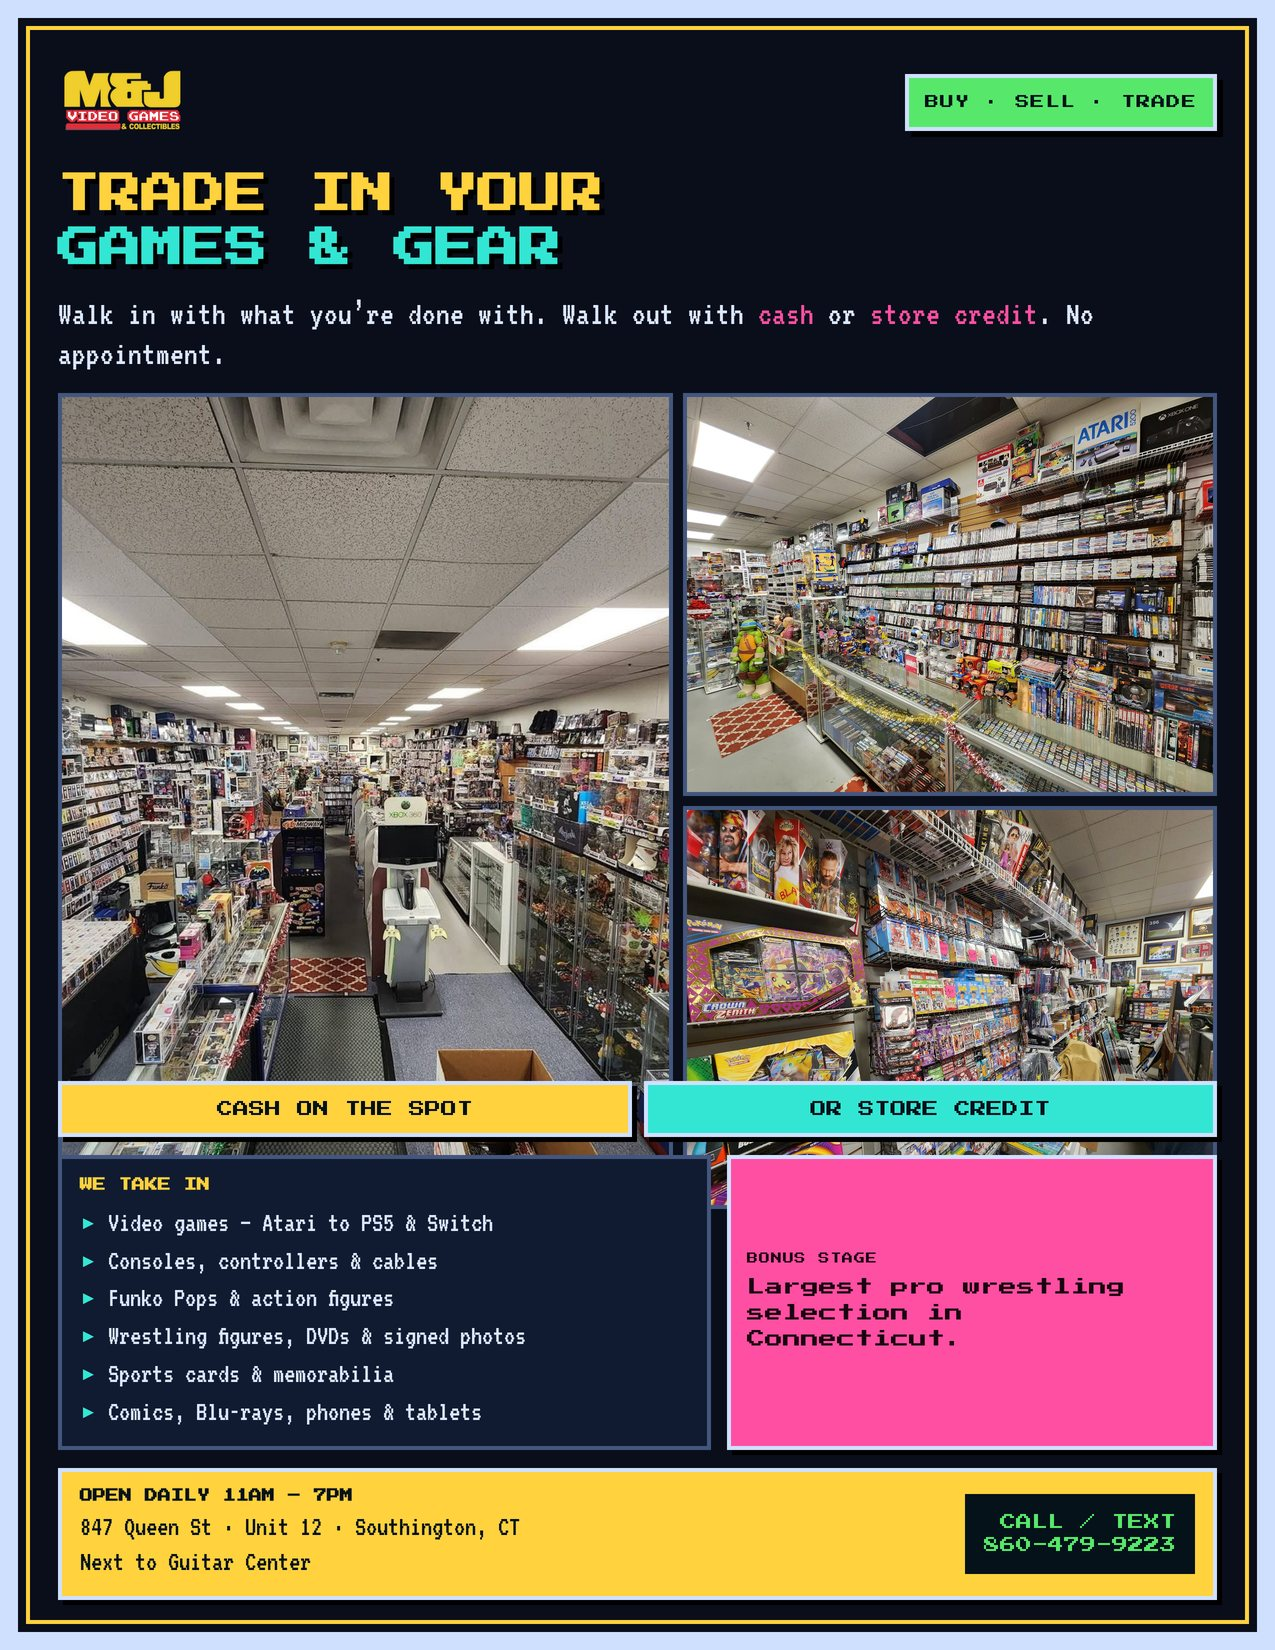
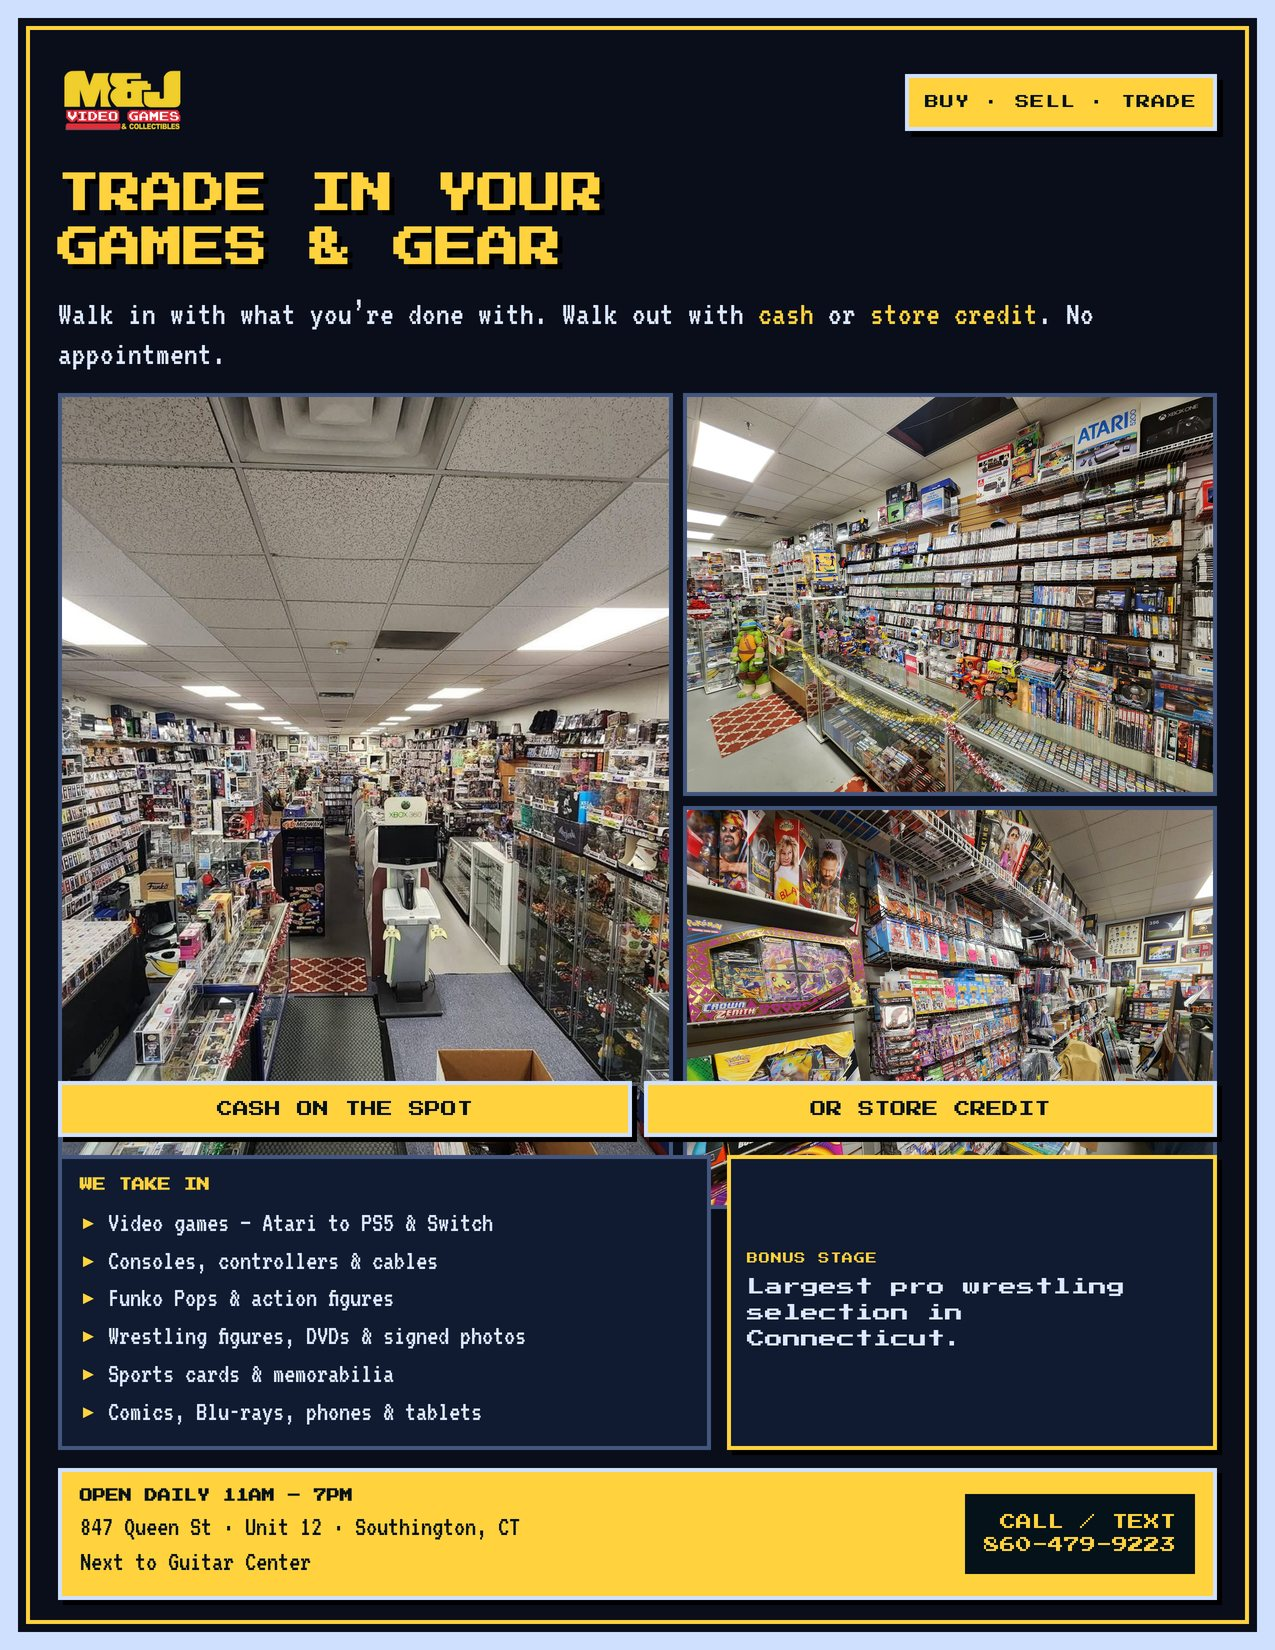
Tighten trade-in flyer to navy and gold
Drop the lime, cyan, and magenta blocks. One accent (the logo gold)
on the cabinet navy so the poster matches the rest of the site.

diff --git a/flyer-src.html b/flyer-src.html
@@ -26,7 +26,7 @@
   .logo{ height:96px; width:auto; mix-blend-mode:screen; }
   .bst{
     font-family:"Press Start 2P", monospace;
-    font-size:14px; color:#06121a; background:#57e86b;
+    font-size:14px; color:#06121a; background:#ffd23e;
     padding:14px 16px; letter-spacing:.08em;
     border:4px solid #cfe0ff; box-shadow:6px 6px 0 #000;
     text-align:center; line-height:1.5;
@@ -37,11 +37,11 @@
     text-shadow:5px 5px 0 #000;
     text-wrap:balance;
   }
-  h1 span{ color:#33e6d4; }
+  h1 span{ color:#ffd23e; }
   .lede{
     font-size:34px; line-height:1.2; color:#dce8ff;
   }
-  .lede b{ color:#ff4fa3; font-weight:400; }
+  .lede b{ color:#ffd23e; font-weight:400; }
   .shots{
     display:grid; grid-template-columns:1.15fr 1fr; grid-template-rows:1fr 1fr;
     gap:10px; flex:1; min-height:520px;
@@ -60,9 +60,8 @@
     font-family:"Press Start 2P", monospace; font-size:16px;
     text-align:center; padding:16px 10px; border:4px solid #cfe0ff;
     box-shadow:5px 5px 0 #000;
+    background:#ffd23e; color:#06121a;
   }
-  .pill.cash{ background:#ffd23e; color:#06121a; }
-  .pill.credit{ background:#33e6d4; color:#06121a; }
   .mid{
     display:grid; grid-template-columns:1.2fr .9fr; gap:16px; align-items:stretch;
   }
@@ -75,17 +74,19 @@
   }
   .list ul{ list-style:none; font-size:28px; line-height:1.28; columns:1; }
   .list li{ padding:1px 0; }
-  .list li::before{ content:"▸ "; color:#33e6d4; }
+  .list li::before{ content:"▸ "; color:#ffd23e; }
   .wrest{
-    background:#ff4fa3; color:#1a0410; border:4px solid #cfe0ff;
+    background:#101a30; color:#ffd23e; border:4px solid #ffd23e;
     box-shadow:5px 5px 0 #000; padding:18px 16px;
     display:flex; flex-direction:column; justify-content:center; gap:10px;
   }
   .wrest .k{
     font-family:"Press Start 2P", monospace; font-size:11px; letter-spacing:.08em;
+    color:#ffd23e;
   }
   .wrest p{
     font-family:"Press Start 2P", monospace; font-size:18px; line-height:1.45;
+    color:#dce8ff;
   }
   .foot{
     background:#ffd23e; color:#06121a; border:4px solid #cfe0ff;
@@ -96,7 +97,7 @@
   .foot .where b{ font-family:"Press Start 2P", monospace; font-size:13px; display:block; margin-bottom:6px; }
   .foot .phone{
     font-family:"Press Start 2P", monospace; font-size:16px; line-height:1.45;
-    text-align:right; background:#06121a; color:#57e86b;
+    text-align:right; background:#06121a; color:#ffd23e;
     padding:14px 16px; border:3px solid #06121a;
   }
 </style>

diff --git a/index.html b/index.html
@@ -26,7 +26,7 @@
   <link rel="preconnect" href="https://fonts.gstatic.com" crossorigin />
   <link href="https://fonts.googleapis.com/css2?family=Luckiest+Guy&family=Press+Start+2P&family=VT323&display=swap" rel="stylesheet" />
 
-  <link rel="stylesheet" href="/assets/css/styles.css?v=28" />
+  <link rel="stylesheet" href="/assets/css/styles.css?v=29" />
 
   <script type="application/ld+json">
   {
@@ -290,7 +290,7 @@
         </div>
       </div>
       <div class="tradein" data-reveal>
-        <div class="flyer-wrap"><picture><source type="image/webp" srcset="/assets/img/photos/flyer-trade.webp?v=28"><img class="flyer" src="/assets/img/photos/flyer-trade.jpg?v=28" alt="M&amp;J Video Games trade-in flyer" loading="lazy" /></picture></div>
+        <div class="flyer-wrap"><picture><source type="image/webp" srcset="/assets/img/photos/flyer-trade.webp?v=29"><img class="flyer" src="/assets/img/photos/flyer-trade.jpg?v=29" alt="M&amp;J Video Games trade-in flyer" loading="lazy" /></picture></div>
         <div class="tradein-copy">
           <h3>WHAT WE TAKE IN TRADE</h3>
           <p><b>We buy and sell the following items.</b> We give cash and/or store credit and guarantee to pay the most for your items. Our entire inventory is completely comprised of trade-ins, so if you haven’t traded with us before, we’re sure you’ll be pleased with our trade-in prices. Stock changes daily, because folks bring in fresh finds every day.</p>
